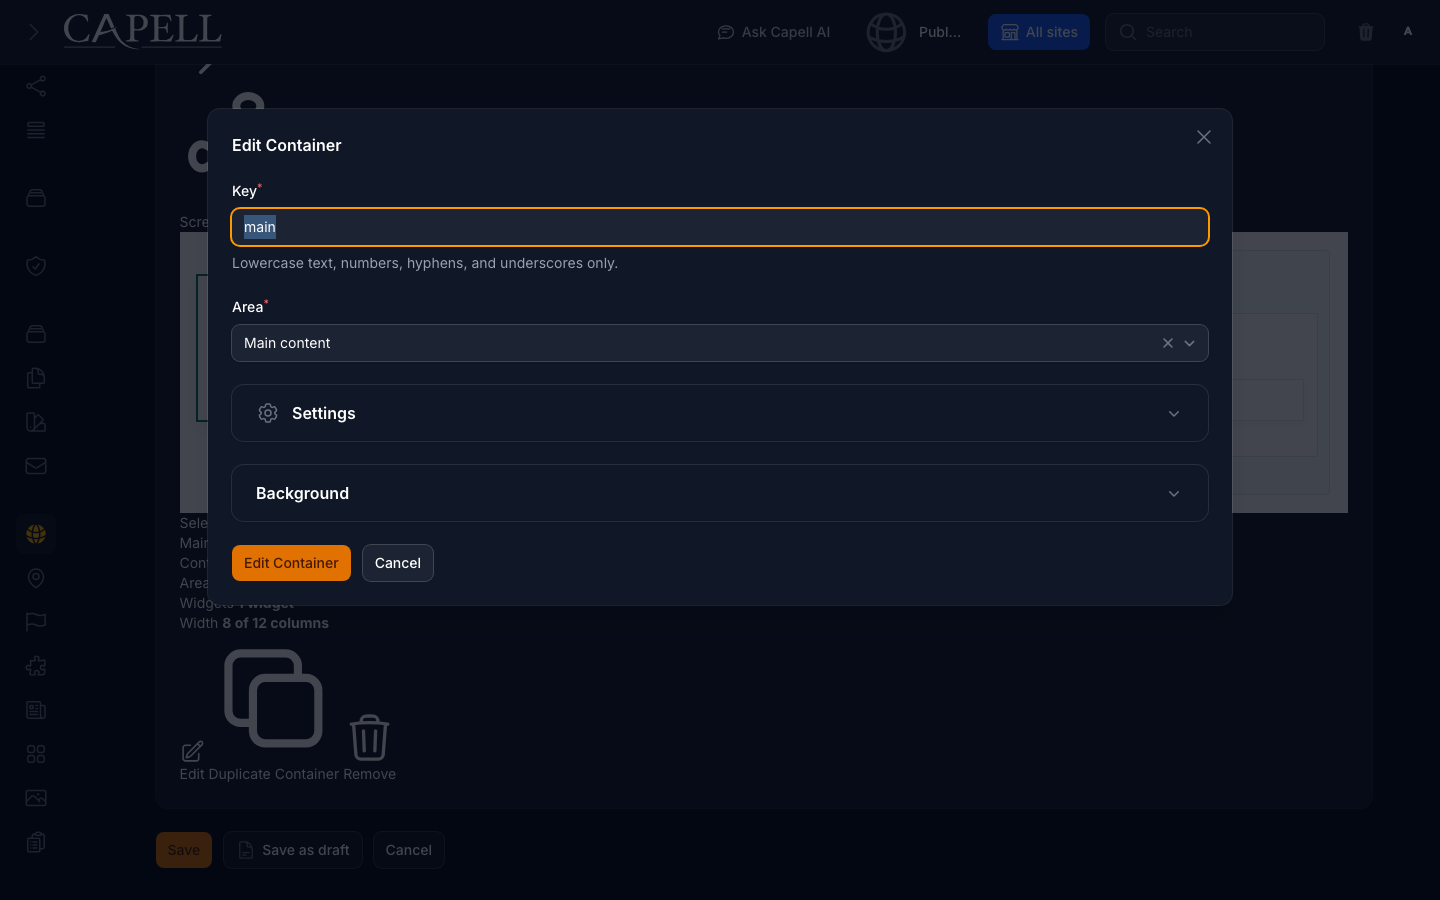
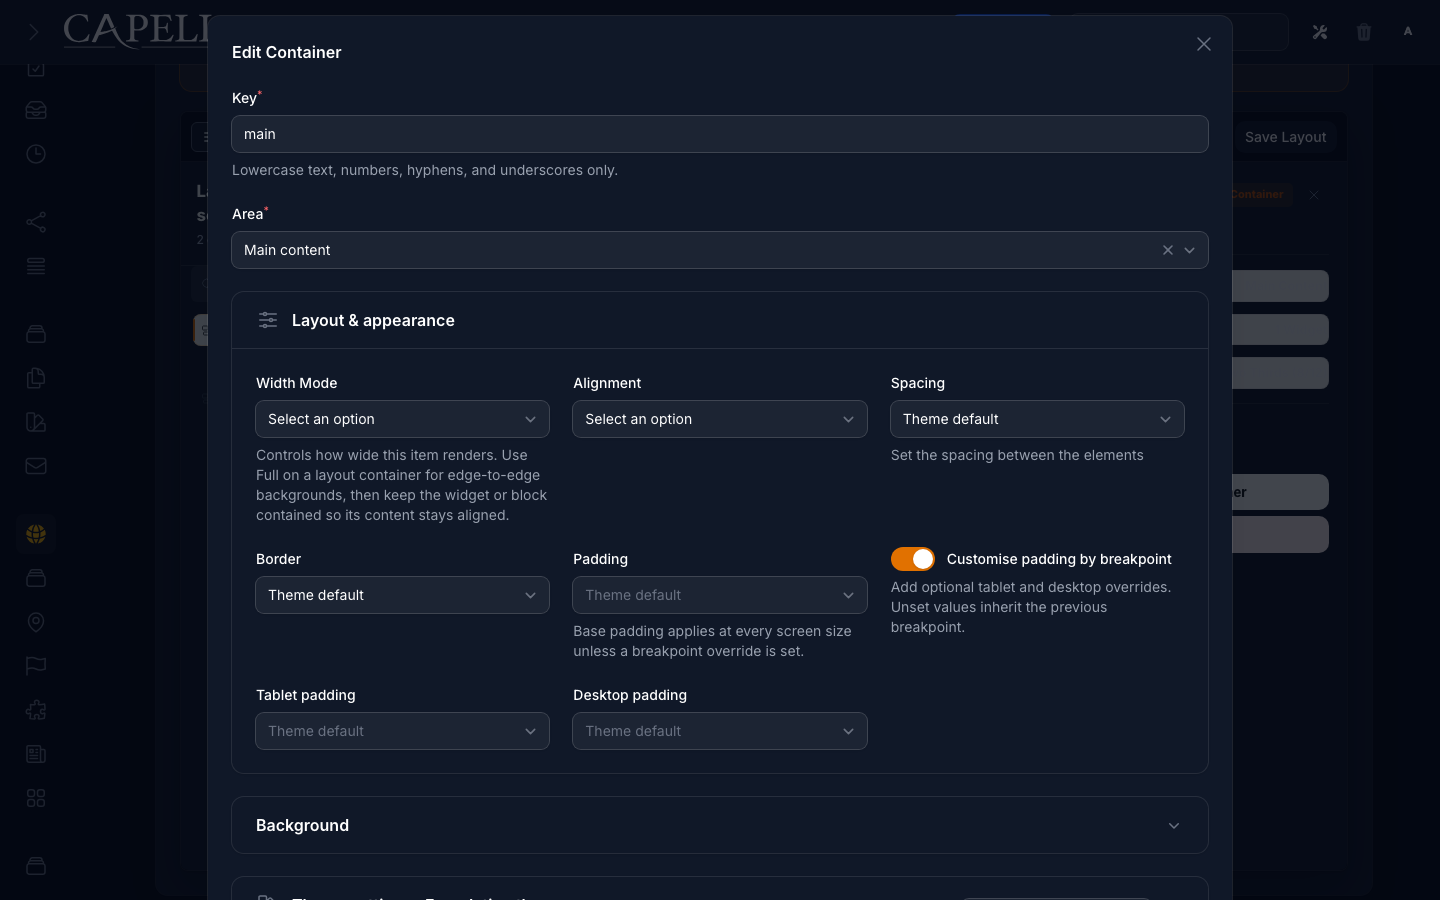
docs: explain theme-aware container settings

diff --git a/tests/Feature/LayoutBuilderScreenshotManifestTest.php b/tests/Feature/LayoutBuilderScreenshotManifestTest.php
@@ -10,6 +10,9 @@ it('separates inspected release evidence from optional replacement targets', fun
         'layout-builder-add-container-action',
         'layout-builder-edit-widget-action',
         'layout-builder-edit-container-action',
+        'layout-builder-edit-container-theme-settings',
+        'layout-builder-edit-container-action-mobile',
+        'layout-builder-edit-container-theme-settings-mobile',
         'widgets-admin-index',
         'create-edit-widget-form',
         'sections-admin-index',
@@ -135,6 +138,18 @@ it('uses stable selector interactions for admin screenshot captures that the wor
             ['type' => 'waitFor', 'selector' => '[data-layout-builder-action="edit-container"]:visible'],
             ['type' => 'click', 'selector' => '[data-layout-builder-action="edit-container"]:visible'],
             ['type' => 'waitFor', 'selector' => '.fi-modal-window:visible'],
+            ['type' => 'waitFor', 'selector' => '[data-layout-container-section="appearance"]'],
+            ['type' => 'click', 'selector' => '[data-layout-container-control="responsive-padding"][role="switch"]'],
+            ['type' => 'waitFor', 'selector' => '[data-layout-container-field="padding-tablet"]'],
+        ],
+        'layout-builder-edit-container-theme-settings' => [
+            ['type' => 'click', 'selector' => '[data-layout-builder-tree-item="main"]'],
+            ['type' => 'waitFor', 'selector' => '[data-layout-builder-action="edit-container"]:visible'],
+            ['type' => 'click', 'selector' => '[data-layout-builder-action="edit-container"]:visible'],
+            ['type' => 'waitFor', 'selector' => '.fi-modal-window:visible'],
+            ['type' => 'click', 'selector' => '[data-layout-container-section="theme"] .fi-section-header'],
+            ['type' => 'scrollIntoView', 'selector' => '[data-layout-container-section="theme"]'],
+            ['type' => 'waitFor', 'selector' => '[data-layout-container-action="reset-theme-settings"]:visible'],
         ],
         'layout-builder-responsive-preview' => [
             ['type' => 'click', 'selector' => '[data-layout-builder-action="preview-tablet"]'],

diff --git a/src/Filament/Configurators/Layouts/DefaultLayoutContainerConfigurator.php b/src/Filament/Configurators/Layouts/DefaultLayoutContainerConfigurator.php
@@ -62,6 +62,7 @@ class DefaultLayoutContainerConfigurator implements ConfiguratorInterface
         return [
             Section::make(__('capell-layout-builder::generic.layout_and_appearance'))
                 ->statePath('meta')
+                ->extraAttributes(['data-layout-container-section' => 'appearance'])
                 ->icon(Heroicon::OutlinedAdjustmentsHorizontal)
                 ->columnSpanFull()
                 ->columns(['sm' => 2, 'md' => 3])
@@ -78,6 +79,7 @@ class DefaultLayoutContainerConfigurator implements ConfiguratorInterface
                         ->helperText(__('capell-layout-builder::generic.padding_base_helper')),
                     Toggle::make('responsive_padding_enabled')
                         ->label(__('capell-layout-builder::form.customise_padding_by_breakpoint'))
+                        ->extraAttributes(['data-layout-container-control' => 'responsive-padding'])
                         ->helperText(__('capell-layout-builder::generic.responsive_padding_helper'))
                         ->live()
                         ->dehydrated(false)
@@ -94,6 +96,7 @@ class DefaultLayoutContainerConfigurator implements ConfiguratorInterface
                         }),
                     PaddingSelect::make('padding_tablet')
                         ->label(__('capell-layout-builder::form.padding_tablet'))
+                        ->extraAttributes(['data-layout-container-field' => 'padding-tablet'])
                         ->visible(fn (Get $get): bool => $get('responsive_padding_enabled') === true),
                     PaddingSelect::make('padding_desktop')
                         ->label(__('capell-layout-builder::form.padding_desktop'))
@@ -177,11 +180,13 @@ class DefaultLayoutContainerConfigurator implements ConfiguratorInterface
             ]))
                 ->description(__('capell-layout-builder::generic.theme_settings_description'))
                 ->statePath('meta.theme_settings.' . $themeKey)
+                ->extraAttributes(['data-layout-container-section' => 'theme'])
                 ->collapsed()
                 ->icon(Heroicon::OutlinedSwatch)
                 ->headerActions([
                     Action::make('reset_theme_settings')
                         ->label(__('capell-layout-builder::form.reset_theme_settings'))
+                        ->extraAttributes(['data-layout-container-action' => 'reset-theme-settings'])
                         ->icon(Heroicon::OutlinedArrowPath)
                         ->color('gray')
                         ->requiresConfirmation()

diff --git a/resources/lang/en/generic.php b/resources/lang/en/generic.php
@@ -85,7 +85,7 @@ return [
     'three_quarters' => 'Three quarters',
     'two_thirds' => 'Two thirds',
     'theme_settings_description' => 'These fields come from the active theme and are stored on this layout container only.',
-    'theme_settings_heading' => 'Theme settings: :theme',
+    'theme_settings_heading' => 'Theme settings · :theme',
     'content' => 'Content',
     'content_first_editor' => 'Layout content editor',
     'content_placement' => ':container > :widget > Item :position',

diff --git a/docs/admin-guide.md b/docs/admin-guide.md
@@ -28,11 +28,21 @@ This guide is for editors who build pages and owners deciding how to use widgets
 ### How to tune a layout container
 
 1. Open the page editor and select the container that holds the widgets you want to adjust.
-2. In **Settings**, choose the container width, alignment, spacing, padding, margin, border, visibility, tag, or background options you need.
-3. If the active theme adds extra controls, use the **Theme settings** section in the same panel. These settings apply only to this container and this active theme.
-4. Save the page.
+2. Open **Layout & appearance**. Set width and alignment, then use:
+    - **Spacing** for the gap between widgets inside the container.
+    - **Padding** for space between the container edge and its widgets.
+    - **Border** for the container edge treatment.
+3. Leave a value at **Theme default** to inherit the theme's normal treatment. Choose **None** when the container must explicitly have no spacing, padding, or border, even if the theme supplies one.
+4. To vary padding by screen size, enable **Customise by breakpoint**. Base padding applies at every size, tablet replaces it from the tablet breakpoint, and desktop replaces the effective tablet or base value from the desktop breakpoint. An empty override inherits the preceding value; **None** removes padding at that breakpoint.
+5. Open **Background** only when the container needs its own background.
+6. Open **Theme settings · {Theme name}** for controls supplied by the active theme. The swatch icon and description identify these as theme-owned values for this container only.
+7. Use **Reset theme settings** to clear only this container's values for the active theme. Confirm the action, then save the container normally. Core settings and values saved for other themes are left in place.
+8. Open **Advanced** for column position, responsive visibility, tag, HTML class, column overrides, and legacy margin. Margin is outside the container; keep it for existing layouts, but prefer spacing and padding for new visual changes.
+9. Save the page.
 
-![Edit a layout container with spacing, padding, border, background, and active-theme settings.](screenshots/layout-container-theme-settings.png)
+![Set base, tablet, and desktop padding in the expanded Layout and appearance section.](screenshots/layout-builder-edit-container-action.png)
+
+![Recognise and reset the active theme's container-local settings.](screenshots/layout-builder-edit-container-theme-settings.png)
 
 ### How to upload an image or file for a widget
 